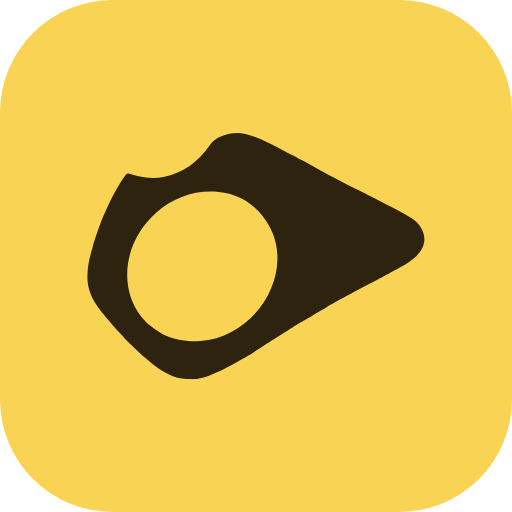
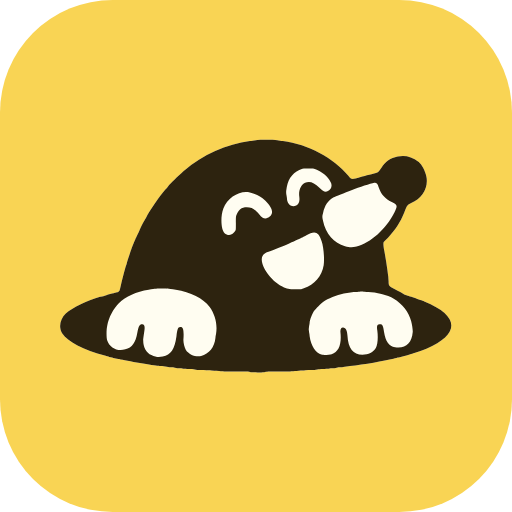
feat: a marca vira a toupeira saindo do buraco
O símbolo sai da arte 01-toupeira (alternatives-logos/divertidas), traçado
com potrace e guardado em referencia/marca/mirsui-toupeira-master.png. O nome
continua como texto em Archivo ao lado.

A toupeira é de uma cor só e segue currentColor; olhos, focinho, boca e patas
são vazados. Nas imagens OG de fundo fixo e nos ícones, a silhueta ganha creme
por baixo, como na arte. O favicon fica sem os riscos de susto, que somem em
16 px. Os tamanhos sobem um pouco porque os riscos ocupam o topo da caixa.

Changed region(s): [[0.0938, 0.25, 0.9062, 0.75], [0.3438, 0.3125, 0.375, 0.3438]]

diff --git a/components/MirsuiLogo/marca.ts b/components/MirsuiLogo/marca.ts
@@ -1,24 +1,39 @@
 /**
- * Geometria da marca do Mirsui: o "furo".
+ * Geometria da marca do Mirsui: a toupeira saindo do buraco.
  *
- * O contorno foi traçado da arte de origem (referencia/marca/
- * mirsui-furo-master.png) com potrace, depois de desfocar a borda para tirar
- * o serrilhado da imagem, e não redesenhado à mão. Da arte só sai o símbolo;
- * o nome continua como texto, em Archivo, ao lado dele.
+ * Os contornos foram traçados da arte de origem (referencia/marca/
+ * mirsui-toupeira-master.png) com potrace, depois de desfocar a borda para
+ * tirar o serrilhado da imagem, e não redesenhados à mão. Da arte só sai o
+ * símbolo; o nome continua como texto, em Archivo, ao lado dele.
  *
- * O furo é vazado, não pintado com a cor do fundo: o símbolo aparece sobre o
- * header mostarda, sobre o papel claro e sobre o tema escuro, e o furo tem de
- * mostrar o que estiver atrás.
+ * A toupeira é de uma cor só. Olhos, focinho, boca e patas são vazados, não
+ * pintados: no header claro eles mostram o creme do fundo, como na arte, e no
+ * tema escuro a toupeira fica clara com o rosto escuro. Onde o fundo é fixo
+ * (favicon, imagens de compartilhamento), pinte MARCA_SILHUETA de creme por
+ * baixo para ter as partes claras da arte.
  *
- * A caixa é 137x100 porque a marca é 1,37:1. Assim `size` continua valendo
- * como altura.
+ * Os três riscos de susto ficam num caminho à parte porque somem no favicon.
+ *
+ * A caixa é 131x102 (1,28:1), com 1 de folga em volta do desenho. Assim
+ * `size` continua valendo como altura.
  */
 
-export const MARCA_VIEWBOX = '0 0 137 100'
+export const MARCA_VIEWBOX = '-1 -1 131 102'
 
 /** largura / altura — para dimensionar a partir da altura desejada */
-export const MARCA_RAZAO = 137 / 100
+export const MARCA_RAZAO = 131 / 102
 
-/** o corpo com o furo; precisa de fill-rule evenodd */
-export const MARCA_FURO =
-    'M40.2 99.9C35.7 99.7 31 97.5 25.8 93.2C25.3 92.7 24.3 91.9 23.6 91.3C22.8 90.7 21.6 89.6 20.8 88.8C20.1 88.1 18.8 86.9 18 86.1C17.2 85.4 16 84.1 15.2 83.3C14.5 82.5 13.4 81.3 12.7 80.6C10.7 78.4 7.3 74.5 5.3 71.9C1.4 66.9 -0.2 62.3 0.2 57C0.4 53.8 0.7 51.9 2.3 46.2C3.1 43.3 5.2 37.2 6.3 34.6C6.6 33.9 7.1 32.8 7.4 32.1C8.4 29.7 10.6 25.1 11.8 23.2C12 22.8 12.6 21.8 13.1 21C14.3 19 15.7 17 16.2 16.7C16.5 16.5 16.9 16.6 18.2 17C22.5 18.4 27.3 18.8 31 18C38.8 16.4 44.8 12.2 50 4.8C51.4 2.8 53.2 1.7 56 0.9C62.3 -1 66.6 0.3 80.7 7.8C81.3 8.2 82.4 8.7 83 9C83.7 9.4 84.7 9.9 85.2 10.2C85.8 10.5 86.8 11.1 87.6 11.4C88.3 11.8 89.6 12.5 90.3 12.9C91 13.3 92.3 14 93 14.4C93.8 14.8 95.1 15.5 96 16C99.8 18.1 103.2 19.8 108.8 22.7C110 23.2 111.6 24.1 112.6 24.6C113.5 25.1 115.7 26.2 117.5 27.1C130.7 33.8 133.4 35.4 135 37.9C138.1 42.5 137.1 47.2 132.3 51.1C130 52.9 128.8 53.6 124.8 55.8C124.1 56.1 123.1 56.7 122.6 57C122 57.3 121.1 57.8 120.5 58.1C119.9 58.4 118.7 59.1 117.9 59.5C117 60 115.4 60.9 114.3 61.4C109.7 63.8 100.2 69 97.4 70.6C96.7 71.1 95.6 71.7 95.1 72C94.5 72.3 92.7 73.3 91 74.4C89.3 75.4 87.4 76.5 86.9 76.8C86.3 77.1 85.1 77.9 84.1 78.4C82.4 79.6 80 81.1 78.8 81.8C78.4 82 76.9 83 75.4 84C74 84.9 72.2 86.1 71.6 86.4C71 86.8 69.6 87.7 68.6 88.3C67.6 89 66.4 89.8 65.9 90.1C65.3 90.3 64.3 91 63.5 91.5C61.9 92.5 61.2 92.8 57.9 94.6C53.7 96.8 52.3 97.4 49.4 98.5C45.5 99.8 43.7 100.1 40.2 99.9ZM45.9 84.5C68.8 82.7 84.4 56.6 73.8 37.7C70 30.8 64 26.3 56.7 24.6C46.6 22.4 36.1 25.3 28 32.5C14.1 44.8 12.3 65 24 76.9C25.5 78.3 28.7 80.7 30.5 81.6C35.1 83.8 40.6 84.9 45.9 84.5Z'
+/** só a toupeira e o buraco, sem os riscos — para o favicon */
+export const MARCA_VIEWBOX_CORPO = '-1 22.6 131 78.4'
+
+/** a toupeira e o buraco, com as partes claras vazadas; precisa de fill-rule evenodd */
+export const MARCA_TOUPEIRA =
+    'M62.8 99.9C62.1 99.7 61.6 99.7 58.2 99.7C54.7 99.7 54.2 99.7 53.4 99.6C52.8 99.5 52.2 99.5 50.8 99.4C49.4 99.4 48.9 99.4 48.2 99.3C47.6 99.2 47 99.2 46.3 99.2C45.6 99.2 44.9 99.1 44.4 99C43.9 99 43.1 98.9 42.7 98.9C42.3 98.9 41.5 98.8 41 98.8C40.6 98.7 40 98.6 39.7 98.6C39.4 98.6 38.8 98.6 38.3 98.5C37.8 98.4 37.3 98.3 37.1 98.3C36.9 98.3 36.3 98.3 35.7 98.2C35.2 98.1 34.3 98 33.7 97.9C33.1 97.9 32.5 97.8 32.4 97.8C31.4 97.8 21.8 96.2 19.6 95.6C19.3 95.5 18.6 95.4 18.1 95.3C17.7 95.2 16.9 95 16.4 94.9C16 94.7 15.4 94.6 15.2 94.5C7.7 92.5 2.8 89.9 0.9 87.1C-0.3 85.2 0.2 82.5 2.1 80.7C4.2 78.8 9.4 76.3 13.4 75.2C13.6 75.2 14.3 75 14.9 74.8C15.5 74.6 16.5 74.3 17.3 74.1C18 74 18.7 73.8 18.9 73.7C19.2 73.7 19.6 73.4 19.8 73C19.9 72.7 19.9 72.7 20.4 70.4C20.8 68.8 21.1 67.5 21.6 65.8C21.8 65.3 22 64.6 22.1 64.3C22.3 63.3 24 58.4 24.5 57.3C24.6 57.1 24.9 56.5 25 56.1C25.2 55.7 25.5 55.1 25.6 54.8C25.8 54.5 26 54 26.2 53.6C26.5 52.7 27.3 51.2 27.8 50.3C28 49.9 28.3 49.5 28.4 49.3C29.6 47 32.9 42.1 34.7 40.1C35 39.8 35.4 39.3 35.7 38.9C36.2 38.3 39.4 35.1 40.1 34.6C40.4 34.3 40.8 33.9 41.1 33.7C46.8 28.7 55 25.1 62.5 24.1C63 24 63.8 23.9 64.4 23.8C65.9 23.6 69.9 23.6 71.5 23.8C72 23.9 72.8 24 73.3 24.1C81.7 25.2 89.9 29.6 94.8 35.5C95.8 36.8 95.9 36.8 98.6 36C99.6 35.6 100.9 35.3 101.3 35.2C104.7 34.4 104.5 34.5 105.6 32.9C107.1 30.7 108.5 29.7 111 29.2C113.4 28.7 115.5 29.2 117.9 31C118.9 31.9 120 33.8 120.4 35.8C121.1 39.2 119.1 42.9 115.4 44.4C114.1 45.1 114.1 45 113.1 47.6C111.8 50.8 110.2 53.2 107.8 55.8C107.1 56.4 106.5 57.1 106.4 57.2C106.2 57.6 106.3 58.5 106.6 60.2C106.9 61.9 107.4 64.7 107.6 66.4C107.7 67.1 107.8 68 107.9 68.6C107.9 69.1 108 69.8 108 70.1C108 71.6 108.1 71.7 109.9 72.6C110.7 73 111.6 73.5 112.1 73.8C112.8 74.3 113.6 74.7 113.8 74.7C113.9 74.7 118.7 76.3 119.7 76.7C131.3 81.4 131.5 87.4 120.4 92.2C119 92.8 117.3 93.4 116.4 93.6C116.1 93.7 115.5 93.9 114.9 94.1C113.5 94.5 112 94.9 111.3 95.1C111 95.1 110.2 95.3 109.6 95.5C106.6 96.2 99.9 97.4 95.3 97.9C94.7 98 93.7 98.1 93.1 98.2C92.6 98.3 92 98.3 91.8 98.3C91.6 98.3 91.1 98.4 90.6 98.5C90.2 98.6 89.5 98.6 89.3 98.6C89 98.6 88.4 98.7 87.9 98.8C87.4 98.8 86.7 98.9 86.2 98.9C85.8 98.9 85.1 99 84.6 99C84 99.1 83.4 99.2 82.6 99.2C81.9 99.2 81.3 99.2 80.7 99.3C80.1 99.4 79.5 99.4 78.5 99.4C77.5 99.5 76.9 99.5 76.3 99.6C75.5 99.7 75.1 99.7 71.8 99.7C68.4 99.7 68 99.7 67.2 99.9C66.1 100 63.9 100 62.8 99.9ZM33.9 94.8C36.6 94.2 37.8 92.4 38.4 88.2C38.7 85.7 38.9 85.2 39.6 85.1C40.6 84.9 40.9 86.1 40.7 89C40.6 90.1 41 91.7 41.5 92.6C42.5 94.1 44.7 95 46.5 94.6C49.1 93.9 50.9 91.7 51.2 88.6C51.2 88.4 51.3 87.8 51.4 87.3C51.9 84.2 51.1 81 49.3 78.5C47.2 75.8 43 73.6 38.2 72.9C35.3 72.5 35.3 72.5 33.6 72.5C32 72.5 31.6 72.5 29.3 72.9C25.2 73.5 21.8 75.1 19.5 77.3C17.7 79.1 16.2 81.9 15.7 84.7C15.4 86 15.4 88.7 15.7 89.5C16.5 91.9 19.1 93.2 21.6 92.4C23.9 91.8 25 90.3 25.6 86.8C26 84.7 26.4 84.1 27.2 84.2C27.9 84.3 28.1 84.9 27.9 86.2C27.6 88.4 27.5 88.8 27.5 89.4C27.5 91.8 28.5 93.5 30.2 94.3C31.6 95 32.6 95.1 33.9 94.8ZM89.3 94C91.7 93.1 92.6 90.8 92.2 86.8C92.1 85.7 92.5 85.1 93.3 85.3C94 85.4 94.4 86.2 94.5 87.9C94.7 92.1 96.4 94.2 99.4 94.2C101.4 94.2 103 93.4 103.8 92C104.4 91 104.6 88.5 104.3 86.3C104 84.7 104.3 84.1 105.2 84.2C106 84.2 106.2 84.6 106.5 86.7C107 89.8 108.1 91.4 110.1 91.7C113.5 92.2 115.6 90.5 115.9 86.8C116 86.3 115.7 84.3 115.4 83.2C114.7 80.2 112.5 77.5 109.7 75.8C107.7 74.6 103.7 73.6 101.4 73.6C101 73.6 100.3 73.5 99.9 73.5C99.3 73.4 99.1 73.4 98.4 73.5C98 73.5 97.4 73.6 97.1 73.6C96.5 73.6 94.7 73.8 93.3 74.1C90.9 74.6 88.1 75.8 86.6 76.8C85.9 77.3 84 79.2 83.6 79.8C83 80.6 82.2 82.7 82.1 83.6C82.1 83.8 82 84.4 81.9 84.9L81.8 85.8L81.9 86.7C82 87.2 82.1 87.8 82.1 88.1C82.5 91.3 84.2 93.8 86.2 94.2C86.8 94.3 88.9 94.2 89.3 94ZM80.2 72.4C83.7 71.2 86.1 68.4 86.7 64.8C87 62.9 86.7 58.8 86 56.9C85 53.8 83.8 53.4 80.9 55.1C79.6 55.8 79.7 55.8 74.5 58.1C72.8 58.8 71.5 59.3 70.2 59.8C67.5 60.7 67.1 60.9 66.6 61.9C65.4 64.5 69.5 70.4 73.7 72.1C75 72.6 75.9 72.7 77.8 72.7L79.3 72.7L80.2 72.4ZM97.5 58.7C102 57.5 107.2 52.9 109.9 47.5C111 45.3 110.9 45.1 109.2 44.2C106.8 43.1 105.5 41.6 104.7 39.2C104.4 38.1 104 37.7 103.3 37.8C102 38.1 98.5 39.2 95.8 40.2C93.7 41 90.4 42.3 90 42.5C88.1 43.6 87 45.2 86.5 47.7C86.2 48.8 86.2 49 86.5 50.3C87.3 54.4 90.1 57.6 93.7 58.6C95.2 59 96.1 59 97.5 58.7ZM56.5 54.7C56.9 54.5 57.5 53.9 57.7 53.5C57.9 53.2 57.9 53.2 57.9 51.1C57.9 49.2 57.9 49.1 58 48.6C58.7 46.6 59.7 45.8 61.5 45.8C63.1 45.8 64.1 46.4 65.6 48.2C66.7 49.7 67.9 49.9 69.1 48.8C70.3 47.6 69.9 46.1 67.6 43.7C65.9 42.1 64.9 41.6 62.5 41C59.3 40.2 55.2 42.6 53.8 46.2C52.8 48.8 53 53.2 54.2 54.3C54.8 54.9 55.8 55.1 56.5 54.7ZM77.7 45.2C78.6 44.8 78.9 43.9 78.7 42.4C78.4 40.4 79.2 38.4 80.6 37.8C82 37.1 83.5 37.6 85.3 39.4C86.6 40.7 87.2 40.9 88.1 40.5C89.2 39.9 89.6 38.7 89 37.6C88.1 35.8 86 34 83.8 33.3L83.2 33.1L81.6 33.1C80.3 33.1 80 33.1 79.7 33.2C76.9 34.1 75.2 36.1 74.6 39.2C74.4 40.5 74.3 40.8 74.5 41.9C74.6 42.4 74.7 43.1 74.7 43.4C75 45 76.3 45.9 77.7 45.2Z'
+
+/** os três riscos de susto acima do nariz */
+export const MARCA_RISCOS =
+    'M113.5 23.8C111.3 23.2 110.5 20.3 112.2 18.6C112.4 18.4 112.8 18 113.1 17.7C113.4 17.5 114 16.9 114.5 16.5C114.9 16.1 115.5 15.6 115.7 15.4C115.9 15.2 116.6 14.7 117.1 14.2C117.6 13.7 118.2 13.2 118.4 13C118.7 12.8 119.2 12.3 119.6 12C121.2 10.5 122.1 10.2 123.5 10.9C124.8 11.5 125.4 12.7 125.3 14.1C125.2 15 124.7 15.7 123.6 16.7C123.3 16.9 122.8 17.3 122.5 17.6C122.1 17.9 121.7 18.3 121.5 18.5C121.3 18.6 120.8 19 120.5 19.3C120.2 19.6 119.8 19.9 119.6 20.1C119.4 20.3 118.9 20.6 118.6 20.9C118.3 21.2 117.8 21.6 117.6 21.8C117.4 21.9 117 22.3 116.6 22.6C115.5 23.7 114.4 24.1 113.5 23.8ZM94.2 20.5C93.4 20.3 92.7 19.7 92.4 19C92.2 18.7 91.4 16.2 91.2 15.5C91.1 15 90.7 13.9 90.2 12.1C88.9 7.7 88.8 7 89.2 6C89.8 4.7 91.3 4 92.6 4.3C94.1 4.7 94.7 5.4 95.2 7.2C95.4 8 95.6 8.6 96.5 11.7C97.3 14.2 98 17.3 98 17.9C97.9 19.7 95.9 21 94.2 20.5ZM104.6 18.9C103.3 18.7 102.3 17.3 102.3 16C102.3 15.5 103.4 12.1 104.1 10.3C104.2 10 104.6 8.9 105 7.9C105.3 6.8 105.7 5.7 105.8 5.5C105.9 5.3 106.2 4.5 106.4 3.7C107.1 1.8 107.2 1.5 107.7 1C109.2 -0.6 111.7 -0.2 112.7 1.8C113.1 2.8 113 3.7 112.1 6.1C112 6.5 111.6 7.5 111.4 8.2C111.1 8.9 110.8 9.7 110.7 9.9C110.7 10.1 110.3 11 110.1 11.8C108.6 16.1 107.9 17.8 107.4 18.2C106.7 18.8 105.5 19.1 104.6 18.9Z'
+
+/** o contorno externo da toupeira com o buraco, para pintar as partes claras */
+export const MARCA_SILHUETA =
+    'M62.8 99.9C62.1 99.7 61.6 99.7 58.2 99.7C54.7 99.7 54.2 99.7 53.4 99.6C52.8 99.5 52.2 99.5 50.8 99.4C49.4 99.4 48.9 99.4 48.2 99.3C47.6 99.2 47 99.2 46.3 99.2C45.6 99.2 44.9 99.1 44.4 99C43.9 99 43.1 98.9 42.7 98.9C42.3 98.9 41.5 98.8 41 98.8C40.6 98.7 40 98.6 39.7 98.6C39.4 98.6 38.8 98.6 38.3 98.5C37.8 98.4 37.3 98.3 37.1 98.3C36.9 98.3 36.3 98.3 35.7 98.2C35.2 98.1 34.3 98 33.7 97.9C33.1 97.9 32.5 97.8 32.4 97.8C31.4 97.8 21.8 96.2 19.6 95.6C19.3 95.5 18.6 95.4 18.1 95.3C17.7 95.2 16.9 95 16.4 94.9C16 94.7 15.4 94.6 15.2 94.5C7.7 92.5 2.8 89.9 0.9 87.1C-0.3 85.2 0.2 82.5 2.1 80.7C4.2 78.8 9.4 76.3 13.4 75.2C13.6 75.2 14.3 75 14.9 74.8C15.5 74.6 16.5 74.3 17.3 74.1C18 74 18.7 73.8 18.9 73.7C19.2 73.7 19.6 73.4 19.8 73C19.9 72.7 19.9 72.7 20.4 70.4C20.8 68.8 21.1 67.5 21.6 65.8C21.8 65.3 22 64.6 22.1 64.3C22.3 63.3 24 58.4 24.5 57.3C24.6 57.1 24.9 56.5 25 56.1C25.2 55.7 25.5 55.1 25.6 54.8C25.8 54.5 26 54 26.2 53.6C26.5 52.7 27.3 51.2 27.8 50.3C28 49.9 28.3 49.5 28.4 49.3C29.6 47 32.9 42.1 34.7 40.1C35 39.8 35.4 39.3 35.7 38.9C36.2 38.3 39.4 35.1 40.1 34.6C40.4 34.3 40.8 33.9 41.1 33.7C46.8 28.7 55 25.1 62.5 24.1C63 24 63.8 23.9 64.4 23.8C65.9 23.6 69.9 23.6 71.5 23.8C72 23.9 72.8 24 73.3 24.1C81.7 25.2 89.9 29.6 94.8 35.5C95.8 36.8 95.9 36.8 98.6 36C99.6 35.6 100.9 35.3 101.3 35.2C104.7 34.4 104.5 34.5 105.6 32.9C107.1 30.7 108.5 29.7 111 29.2C113.4 28.7 115.5 29.2 117.9 31C118.9 31.9 120 33.8 120.4 35.8C121.1 39.2 119.1 42.9 115.4 44.4C114.1 45.1 114.1 45 113.1 47.6C111.8 50.8 110.2 53.2 107.8 55.8C107.1 56.4 106.5 57.1 106.4 57.2C106.2 57.6 106.3 58.5 106.6 60.2C106.9 61.9 107.4 64.7 107.6 66.4C107.7 67.1 107.8 68 107.9 68.6C107.9 69.1 108 69.8 108 70.1C108 71.6 108.1 71.7 109.9 72.6C110.7 73 111.6 73.5 112.1 73.8C112.8 74.3 113.6 74.7 113.8 74.7C113.9 74.7 118.7 76.3 119.7 76.7C131.3 81.4 131.5 87.4 120.4 92.2C119 92.8 117.3 93.4 116.4 93.6C116.1 93.7 115.5 93.9 114.9 94.1C113.5 94.5 112 94.9 111.3 95.1C111 95.1 110.2 95.3 109.6 95.5C106.6 96.2 99.9 97.4 95.3 97.9C94.7 98 93.7 98.1 93.1 98.2C92.6 98.3 92 98.3 91.8 98.3C91.6 98.3 91.1 98.4 90.6 98.5C90.2 98.6 89.5 98.6 89.3 98.6C89 98.6 88.4 98.7 87.9 98.8C87.4 98.8 86.7 98.9 86.2 98.9C85.8 98.9 85.1 99 84.6 99C84 99.1 83.4 99.2 82.6 99.2C81.9 99.2 81.3 99.2 80.7 99.3C80.1 99.4 79.5 99.4 78.5 99.4C77.5 99.5 76.9 99.5 76.3 99.6C75.5 99.7 75.1 99.7 71.8 99.7C68.4 99.7 68 99.7 67.2 99.9C66.1 100 63.9 100 62.8 99.9Z'

diff --git a/app/api/og/landing/route.tsx b/app/api/og/landing/route.tsx
@@ -7,8 +7,10 @@
 import { ImageResponse } from 'next/og'
 
 import {
-    MARCA_FURO,
     MARCA_RAZAO,
+    MARCA_RISCOS,
+    MARCA_SILHUETA,
+    MARCA_TOUPEIRA,
     MARCA_VIEWBOX,
 } from '@/components/MirsuiLogo/marca'
 
@@ -18,6 +20,7 @@ const BG = '#f9d454'
 const ACC = '#775500'
 const TEXT = '#2d230f'
 const MUTED = '#473710'
+const CREAM = '#fffdf1'
 
 export async function GET() {
     return new ImageResponse(
@@ -42,12 +45,14 @@ export async function GET() {
                     }}
                 >
                     <svg
-                        width={Math.round(44 * MARCA_RAZAO)}
-                        height="44"
+                        width={Math.round(56 * MARCA_RAZAO)}
+                        height="56"
                         viewBox={MARCA_VIEWBOX}
                         xmlns="http://www.w3.org/2000/svg"
                     >
-                        <path fillRule="evenodd" d={MARCA_FURO} fill={TEXT} />
+                        <path d={MARCA_SILHUETA} fill={CREAM} />
+                        <path fillRule="evenodd" d={MARCA_TOUPEIRA} fill={TEXT} />
+                        <path d={MARCA_RISCOS} fill={TEXT} />
                     </svg>
                     <div
                         style={{

diff --git a/app/api/og/selo/route.tsx b/app/api/og/selo/route.tsx
@@ -9,8 +9,9 @@ import { ImageResponse } from 'next/og'
 import { NextRequest } from 'next/server'
 
 import {
-    MARCA_FURO,
     MARCA_RAZAO,
+    MARCA_RISCOS,
+    MARCA_TOUPEIRA,
     MARCA_VIEWBOX,
 } from '@/components/MirsuiLogo/marca'
 
@@ -72,12 +73,13 @@ export async function GET(req: NextRequest) {
                     }}
                 >
                     <svg
-                        width={Math.round(46 * MARCA_RAZAO)}
-                        height="46"
+                        width={Math.round(58 * MARCA_RAZAO)}
+                        height="58"
                         viewBox={MARCA_VIEWBOX}
                         xmlns="http://www.w3.org/2000/svg"
                     >
-                        <path fillRule="evenodd" d={MARCA_FURO} fill={TEXT} />
+                        <path fillRule="evenodd" d={MARCA_TOUPEIRA} fill={TEXT} />
+                        <path d={MARCA_RISCOS} fill={TEXT} />
                     </svg>
                     <div
                         style={{

diff --git a/components/MirsuiLogo/MirsuiLogo.tsx b/components/MirsuiLogo/MirsuiLogo.tsx
@@ -1,4 +1,9 @@
-import { MARCA_FURO, MARCA_RAZAO, MARCA_VIEWBOX } from './marca'
+import {
+    MARCA_RAZAO,
+    MARCA_RISCOS,
+    MARCA_TOUPEIRA,
+    MARCA_VIEWBOX,
+} from './marca'
 
 interface MirsuiLogoProps {
     /** altura do símbolo em px; a largura sai da razão da marca */
@@ -22,7 +27,8 @@ export default function MirsuiLogo({
             viewBox={MARCA_VIEWBOX}
             aria-hidden="true"
         >
-            <path fillRule="evenodd" d={MARCA_FURO} fill={ink} />
+            <path fillRule="evenodd" d={MARCA_TOUPEIRA} fill={ink} />
+            <path d={MARCA_RISCOS} fill={ink} />
         </svg>
     )
 }

diff --git a/components/Landing/ClubFooter.tsx b/components/Landing/ClubFooter.tsx
@@ -15,7 +15,7 @@ export default function ClubFooter({ compact = false }: { compact?: boolean }) {
                             aria-label="Mirsui, voltar ao início"
                         >
                             mirsui
-                            <MirsuiLogo size={16} />
+                            <MirsuiLogo size={20} />
                         </Link>
                         <nav aria-label="Links do rodapé">
                             <Link href="/#cena">

diff --git a/components/Footer/LandingFooter.tsx b/components/Footer/LandingFooter.tsx
@@ -26,7 +26,7 @@ export default function LandingFooter({ compact = false }: { compact?: boolean }
                     href="/"
                     className="flex items-center gap-2.5 text-[20px] font-extrabold tracking-[-0.04em] text-[#ece3d2]"
                 >
-                    <MirsuiLogo size={26} />
+                    <MirsuiLogo size={30} />
                     mirsui
                 </Link>
 

diff --git a/components/Header/Header.tsx b/components/Header/Header.tsx
@@ -84,7 +84,7 @@ export default function Header({ userProfile, isDono = false }: HeaderProps) {
                     href={homeUrl}
                     className="flex items-center gap-2.5 text-2xl font-black tracking-[-0.04em] text-mir-text"
                 >
-                    <MirsuiLogo size={30} />
+                    <MirsuiLogo size={34} />
                     mirsui
                 </Link>
 

diff --git a/components/Legal/LegalDoc.tsx b/components/Legal/LegalDoc.tsx
@@ -132,7 +132,7 @@ export default function LegalDoc({
                             color: 'inherit',
                         }}
                     >
-                        <MirsuiLogo size={30} />
+                        <MirsuiLogo size={34} />
                         <span
                             style={{
                                 fontWeight: 900,

diff --git a/components/Landing/Hero.tsx b/components/Landing/Hero.tsx
@@ -20,7 +20,7 @@ export default function Hero() {
                     className={styles.wordmark}
                     aria-label="Mirsui, início"
                 >
-                    <MirsuiLogo size={27} />
+                    <MirsuiLogo size={34} />
                     mirsui
                 </Link>
                 <div className={styles.navLinks}>

diff --git a/components/Club/ClubHeader.tsx b/components/Club/ClubHeader.tsx
@@ -68,7 +68,7 @@ export default function ClubHeader({
                     className={styles.wordmark}
                     aria-label="Mirsui, início"
                 >
-                    <MirsuiLogo size={24} />
+                    <MirsuiLogo size={30} />
                     mirsui
                 </Link>
 

diff --git a/components/Landing/Club.module.css b/components/Landing/Club.module.css
@@ -734,7 +734,8 @@
         gap: 6px;
     }
     .wordmark svg {
-        width: 30px;
+        width: 38px;
+        height: auto;
     }
     .navLinks {
         display: none;

diff --git a/components/Club/ClubHeader.module.css b/components/Club/ClubHeader.module.css
@@ -265,7 +265,8 @@
     }
 
     .wordmark svg {
-        width: 24px;
+        width: 34px;
+        height: auto;
     }
 
     .navLinks {
